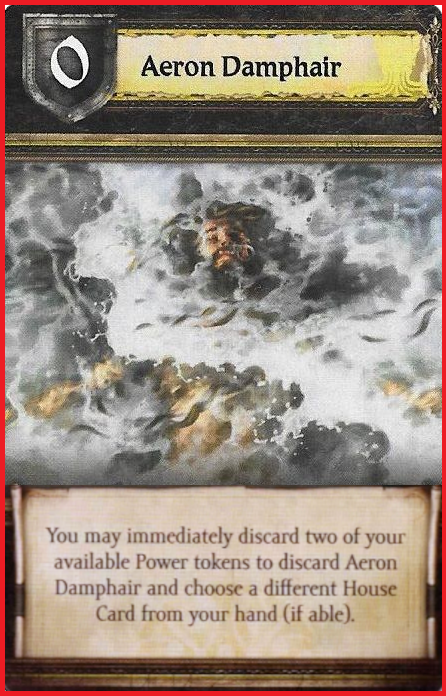
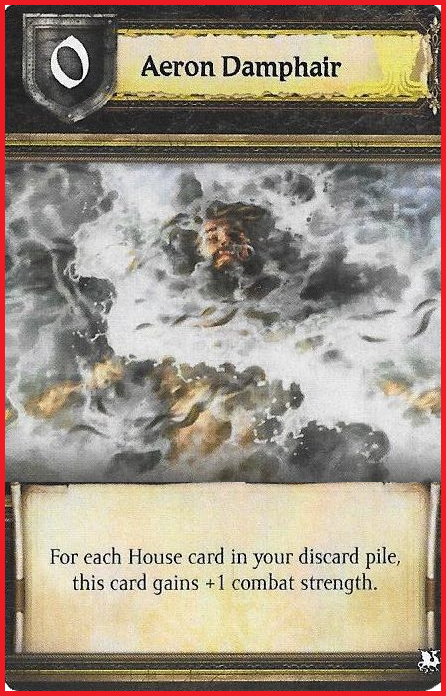
Change nerfed Dwd Aerons ability to Quenty Martells ability

Changed region(s): [[0.0, 0.6638, 0.991, 0.9957]]

diff --git a/agot-bg-game-server/src/server/serializedGameMigrations.ts b/agot-bg-game-server/src/server/serializedGameMigrations.ts
@@ -2239,7 +2239,7 @@ const serializedGameMigrations: {version: string; migrate: (serializeGamed: any)
                     ingame.game.removedDragonStrengthTokens.push(10);
                 }
 
-                // Fix wrong id for players house cards map with nerved cards
+                // Fix wrong id for players house cards map with nerfed cards
                 if (serializedGame.gameSettings.dragonWar) {
                     ingame.game.houses.forEach((h: any) => {
                         const balon = h.houseCards.find(([id, shc]: any) => id == "balon-greyjoy" && shc.id == "balon-greyjoy-nerved");
@@ -2253,6 +2253,23 @@ const serializedGameMigrations: {version: string; migrate: (serializeGamed: any)
                             aeron[0] = "aeron-damphair-dwd-nerved";
                         }
                     });
+                }
+            }
+            return serializedGame;
+        }
+    },
+    {
+        version: "117",
+        migrate: (serializedGame: any) => {
+            if (serializedGame.childGameState.type == "ingame") {
+                const ingame = serializedGame.childGameState;
+
+                const houseCards = _.flatMap(ingame.game.houses.map((h: any) => h.houseCards));
+                houseCards.push(...ingame.game.draftableHouseCards);
+
+                const aeronDwdNerfed: any = houseCards.find(([id, _shc]: any) => id == "aeron-damphair-dwd-nerved");
+                if (aeronDwdNerfed) {
+                    aeronDwdNerfed[1].abilityId = "quentyn-martell";
                 }
             }
             return serializedGame;

diff --git a/agot-bg-game-server/src/common/ingame-game-state/game-data-structure/createGame.ts b/agot-bg-game-server/src/common/ingame-game-state/game-data-structure/createGame.ts
@@ -622,7 +622,7 @@ export function applyChangesForDragonWar(ingame: IngameGameState): void {
     ensureDragonStrengthTokensArePresent(ingame);
 
     nervHouseCard(game, "balon-greyjoy", "jaqen-h-ghar");
-    nervHouseCard(game, "aeron-damphair-dwd", "aeron-damphair");
+    nervHouseCard(game, "aeron-damphair-dwd", "quentyn-martell");
 
     game.world.regions.values.filter(r => r.superControlPowerToken != null && r.garrison == 4).forEach(r => r.garrison = 6);
     game.world.regions.values.filter(r => r.superControlPowerToken != null && r.garrison == 2).forEach(r => r.garrison = 4);
